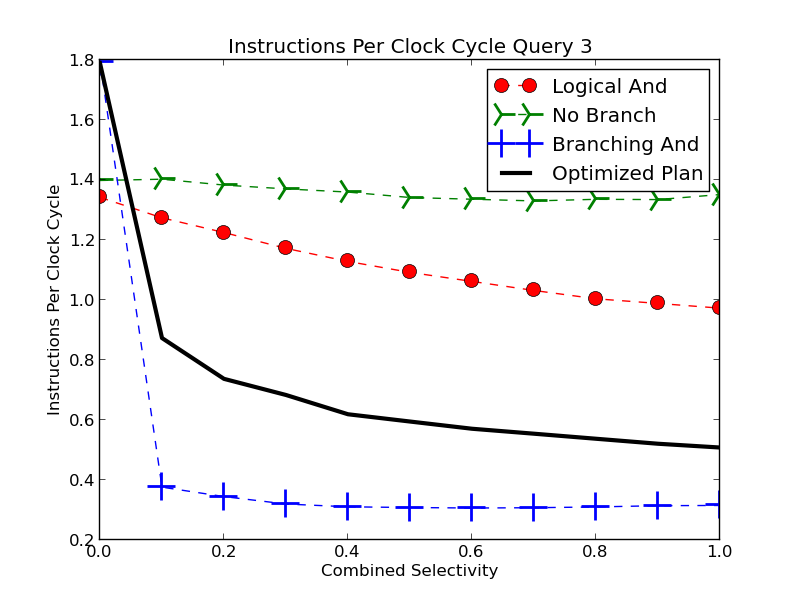
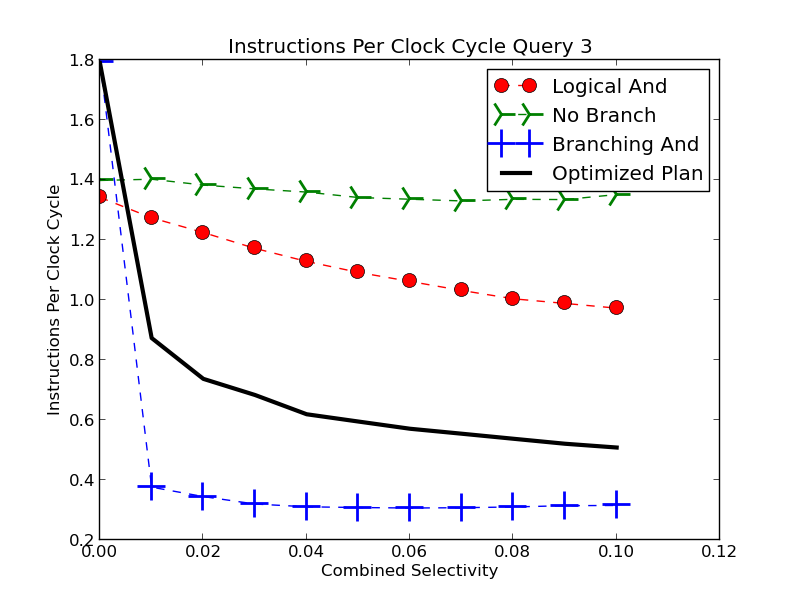
fix a typo on x-axis for query 3. the range should be from 0 to 0.1

diff --git a/Benchmark/Results/group_plot.py b/Benchmark/Results/group_plot.py
@@ -76,6 +76,16 @@ def init_fig(xlabel, ylabel, title):
 
 
 
+def get_query3_x_points():
+	"""
+		 Returns query 3 x points where we have selectivities going from 0 to 0.1
+	"""
+	ans = []
+	for i in xrange(11):
+		val = 0.01 * i
+		ans.append(val)
+	return ans
+
 def plot_combined_results(x, y_land, y_nb, y_pand, y_opt):
 	plt.plot(x, y_land, 'ro--', markersize=10, label='Logical And')
         plt.plot(x, y_nb, 'g2--', markersize=20, markeredgewidth=2, label='No Branch')
@@ -134,6 +144,7 @@ def plot_mispredict_rate(dict):
         title = 'Branch MisPrediction Rate Query 3'
         fig = init_fig(xlabel, ylabel, title)
         fname = 'combined_graph_q3_mispredict_rate.png'
+	x = get_query3_x_points()
 
         # Get the Y-Points
         y_land_q3 = get_mispredict_rate(dict['compiled_result_land_q3'])
@@ -187,6 +198,7 @@ def plot_elapsed_time(dict):
 	title = 'Elapsed Time Query 3'
 	fig = init_fig(xlabel, ylabel, title)
 	fname = 'combined_graph_q3_elapsed_time.png'
+        x = get_query3_x_points()
 
 	# Get the Y-Points
         y_land_q3 = get_elapsed_time(dict['compiled_result_land_q3'])
@@ -242,6 +254,7 @@ def plot_ipc(dict):
         title = 'Instructions Per Clock Cycle Query 3'
         fig = init_fig(xlabel, ylabel, title)
         fname = 'combined_graph_q3_ipc.png'
+        x = get_query3_x_points()
 
         # Get the Y-Points
         y_land_q3 = get_ipc(dict['compiled_result_land_q3'])
@@ -313,10 +326,10 @@ def plot_predicted(result_dict, predicted_dict):
         fname = base_fname % 3
 
         # Get the X-Points
-        x = get_x_points()
+        x = get_query3_x_points()
+
 
         # Get the Y-Points
-
         y_land_q3 = get_cpu_cycles(result_dict['compiled_result_land_q3'])
         y_pand_q3 = get_cpu_cycles(result_dict['compiled_result_pand_q3'])
 
@@ -351,7 +364,7 @@ def main():
 
 	# Make the Combined Group Plots
 
-	print 'Making Combined Group graps...'
+	print 'Making Combined Group graphs...'
 	# Plot All MisPredict Rate Graphs Together
 	plot_mispredict_rate(dict)
 
